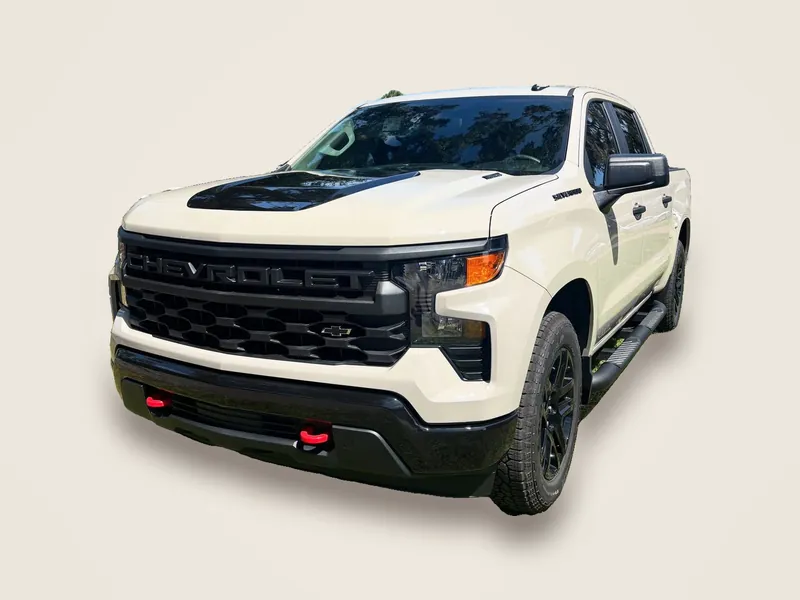
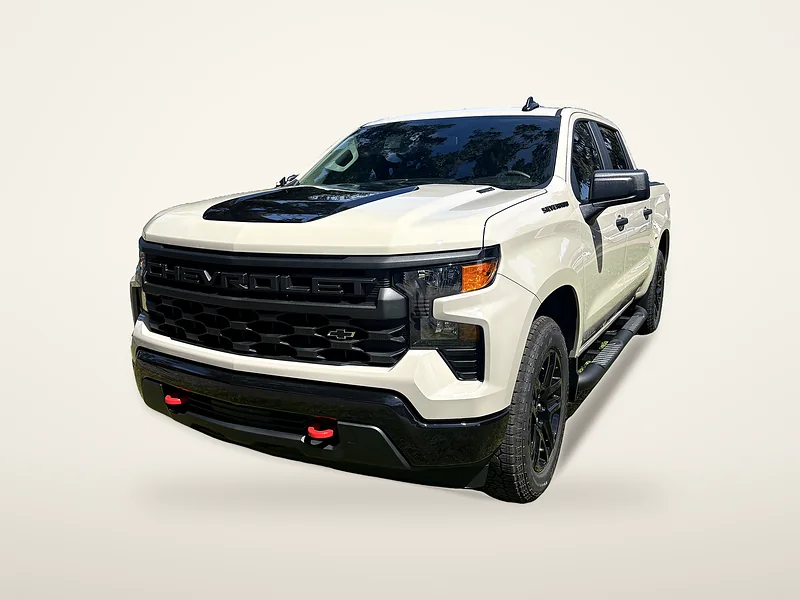
Studio photos, batch 1: DKDY van, Tucson, Silverado
Cutout pipeline v2 (BiRefNet on the full-res Drive originals, studio Stone
backdrop, under-body and tyre contact shadows) plus fixes found while
retouching the first three catalog photos:

- Grass trim only touches the outer rim of the silhouette; it was punching
  ragged holes into black bumpers and tyres that reflect the lawn.
- Lower edge median-smoothed, with a hand-traced clip for the Tucson lip.
- Tucson front tyre rebuilt where tall grass hid its foot.
- Edge burn on the black van so sky reflections no longer fade into the
  backdrop.

Changed region(s): [[0.125, 0.12, 0.875, 0.93]]

diff --git a/scripts/cutouts.py b/scripts/cutouts.py
@@ -1,51 +1,101 @@
-"""Vehicle cutouts: remove the photo background and re-stage the vehicle on a
-plain Stone backdrop with a soft ground shadow, framed the same way every time.
+"""Vehicle cutouts: lift the vehicle off its photo background and re-stage it on a
+plain Stone studio backdrop with a ground shadow, framed the same way every time.
 
-    python scripts/cutouts.py tucson-pink-front silverado-hood-angle work/cargo-van-construction-side
+    python scripts/cutouts.py tucson-pink-front work/cargo-van-construction-side ...
 
-Reads public/assets/<name>.jpg and writes public/assets/cutout/<basename>{,-800}.{jpg,webp}
-at 4:3 (the .type-card frame). Masks are cached in .cutout-cache/ (git-ignored) so
-re-staging is fast; delete a mask to recompute it. Runs fully offline (rembg).
+Source: the full-resolution original from the client's Drive folder when
+scripts/cutout_sources.json maps the photo to one (5712 px HEIC, far finer edges),
+otherwise public/assets/<name>.jpg. Output: public/assets/cutout/<basename>{,-800}.{jpg,webp}
+at 4:3 (the card frame), rendered at 2x and downsampled.
+
+Pipeline: BiRefNet mask -> keep the vehicle only -> edge tightened to a crisp line and
+grass trimmed at the tyres -> background colour removed from the edge pixels -> light colour grade
+-> studio backdrop, under-body shadow and tyre contact shadows -> sharpen.
+Masks are cached in .cutout-cache/ (git-ignored); delete one to recompute it.
+Runs fully offline (rembg, pymatting, OpenCV).
 """
+import json
+import os
 import sys
 from pathlib import Path
 
+import cv2
 import numpy as np
-from PIL import Image, ImageDraw, ImageFilter
+from PIL import Image, ImageEnhance, ImageFilter, ImageOps
 from scipy import ndimage
 
 ROOT = Path(__file__).resolve().parent.parent
 ASSETS = ROOT / "public" / "assets"
 OUT = ASSETS / "cutout"
 CACHE = ROOT / ".cutout-cache"
+DRIVE = Path(os.environ.get("HW_DRIVE", "G:/My Drive/Hermes Wraps"))
+SOURCES = json.loads((Path(__file__).parent / "cutout_sources.json").read_text())
 
-W, H = 1600, 1200          # 4:3, matches .type-card .media
+W, H = 1600, 1200          # 4:3, matches the card .media frame
+SS = 2                     # render at 2x, then downsample
+WORK = 2400                # long side the photo is processed at
 STONE = (236, 230, 220)    # --hw-stone
-GROUND = 0.86              # tyres sit at 86% of the frame height
-MAX_W, MAX_H = 0.86, 0.72  # largest share of the frame the vehicle may fill
-MODEL = "isnet-general-use"
+IVORY = (247, 244, 236)    # --hw-ivory
+GROUND = 0.84              # tyres sit at 84% of the frame height
+MAX_W, MAX_H = 0.84, 0.68  # largest share of the frame the vehicle may fill
+MODEL = "birefnet-general"
 # Photos where a neighbouring vehicle touches the subject need a harder split.
 SPLIT = {"corvette-front": 40}
-# Photos where a red car parked behind sits on the roofline: drop strong reds in the top quarter.
+# A red car parked behind sits on the roofline: drop strong reds in the top quarter.
 DROP_RED_TOP = {"corvette-front"}
+# Tyres whose foot is hidden in tall grass: the tyre's outline as an ellipse
+# ((cx, cy), (w, h), angle) in WORK-size source pixels. Inside the rubber ring the
+# silhouette is completed and grass blades are repainted in the tyre's own tone.
+TYRES = {"tucson-pink-front": [((996, 1529), (310, 462), 4)]}
+# Dark glossy bodies mirror the sky along their outline and fade into a light backdrop:
+# burn the inner rim back down: (strength 0..1, rim width as a share of the photo).
+EDGE_BURN = {"cargo-van-construction-side": (0.7, 0.03)}
+# Hand-traced lower edge (x, y) in WORK-size source pixels where grass blades cross a
+# bumper lip: nothing below the line is kept.
+BOTTOM_CLIP = {"tucson-pink-front": [(40, 1452), (100, 1490), (200, 1558), (300, 1620), (350, 1648),
+                                     (425, 1670), (500, 1680), (600, 1686), (700, 1686), (780, 1674), (800, 1666)]}
 
 
-def mask_for(name: str, src: Image.Image) -> Image.Image:
-    cached = CACHE / f"{name.replace('/', '__')}.png"
+def load_source(name: str) -> Image.Image:
+    orig = SOURCES.get(name)
+    if orig and (DRIVE / orig).exists():
+        if orig.lower().endswith(".heic"):
+            import pillow_heif
+            pillow_heif.register_heif_opener()
+        im = ImageOps.exif_transpose(Image.open(DRIVE / orig)).convert("RGB")
+    else:
+        im = Image.open(ASSETS / f"{name}.jpg").convert("RGB")
+    s = WORK / max(im.size)
+    if s < 1:
+        im = im.resize((round(im.width * s), round(im.height * s)), Image.LANCZOS)
+    return im
+
+
+def mask_for(name: str, src: Image.Image) -> np.ndarray:
+    cached = CACHE / f"{name.replace('/', '__')}.{MODEL}.png"
     if cached.exists():
-        return Image.open(cached).convert("L")
+        m = Image.open(cached).convert("L")
+        if m.size == src.size:
+            return np.asarray(m, dtype=np.float32) / 255
     from rembg import new_session, remove
-    m = remove(src, session=new_session(MODEL), only_mask=True, post_process_mask=True)
+    m = remove(src, session=new_session(MODEL), only_mask=True)
     CACHE.mkdir(exist_ok=True)
     m.save(cached)
-    return m
+    return np.asarray(m, dtype=np.float32) / 255
 
 
-def clean(mask: Image.Image, split: int = 12) -> Image.Image:
-    # Keep only the vehicle (largest blob) and close see-through holes in the glass.
-    a = np.asarray(mask, dtype=np.uint8)
-    solid = a > 128
-    # Erode first so a neighbouring car that merely touches the vehicle separates.
+def keep_vehicle(a: np.ndarray, src: Image.Image, base: str) -> np.ndarray:
+    """Largest blob only (a car parked behind is dropped), glass holes closed."""
+    if base in DROP_RED_TOP:
+        rgb = np.asarray(src).astype(int)
+        rows = np.where((a > 0.5).any(axis=1))[0]
+        top = rows[0] + (rows[-1] - rows[0]) // 3
+        r, g, b = rgb[..., 0], rgb[..., 1], rgb[..., 2]
+        red = ndimage.binary_dilation((r > 80) & (r > g * 1.35) & (r > b * 1.35), iterations=10)
+        red[top:] = False
+        a = np.where(red, 0, a)
+    split = SPLIT.get(base, 12)
+    solid = a > 0.5
     core = ndimage.binary_erosion(solid, iterations=split)
     labels, n = ndimage.label(core)
     if n > 1:
@@ -53,72 +103,210 @@ def clean(mask: Image.Image, split: int = 12) -> Image.Image:
         core = labels == (int(np.argmax(sizes)) + 1)
     keep = ndimage.binary_dilation(core, iterations=split + 2) & solid
     keep = ndimage.binary_fill_holes(keep)
-    near = ndimage.binary_dilation(keep, iterations=6)
-    a = np.where(keep, 255, np.where(near, a, 0)).astype(np.uint8)
-    return Image.fromarray(a, "L")
+    band = ndimage.binary_dilation(keep, iterations=8)
+    return np.where(keep, 1.0, np.where(band, a, 0.0)).astype(np.float32)
 
 
-def ground_shadow(cmask: Image.Image, x: int, y: int) -> Image.Image:
-    # Follow the vehicle's real underside: a tight contact line under every tyre
-    # and bumper, plus a soft pool spreading just below it.
-    a = np.asarray(cmask) > 128
-    cols = np.where(a.any(axis=0))[0]
-    bottom = a.shape[0] - 1 - np.argmax(a[::-1, :], axis=0)
-    contact = Image.new("L", (W, H), 0)
-    pool = Image.new("L", (W, H), 0)
-    dc, dp = ImageDraw.Draw(contact), ImageDraw.Draw(pool)
-    for c in cols:
-        by = y + int(bottom[c])
-        dc.line((x + c, by - 10, x + c, by + 4), fill=230)
-        dp.line((x + c, by - 30, x + c, by + H * 0.045), fill=165)
-    contact = contact.filter(ImageFilter.GaussianBlur(H * 0.006))
-    pool = pool.filter(ImageFilter.GaussianBlur(H * 0.022))
-    return Image.fromarray(np.maximum(np.asarray(contact), np.asarray(pool)), "L")
+def smooth_bottom(alpha: np.ndarray, top: int, bot: int, base: str = "") -> np.ndarray:
+    """Clean the lower silhouette: grass blades along bumper lips and the tyres' feet
+    make that edge spiky. Take each column's lowest solid row, median-filter that
+    profile and cut everything below it with a 1 px anti-aliased edge."""
+    solid = alpha > 0.5
+    has = solid.any(axis=0)
+    hgt = solid.shape[0]
+    bottom = (hgt - 1 - np.argmax(solid[::-1, :], axis=0)).astype(np.float32)
+    cols = np.where(has)[0]
+    k = max(9, int((cols[-1] - cols[0]) * 0.014) | 1)
+    prof = bottom.copy()
+    prof[cols] = ndimage.median_filter(bottom[cols], size=k, mode="nearest")
+    prof[cols] = ndimage.gaussian_filter1d(prof[cols], k / 6)
+    clip = BOTTOM_CLIP.get(base)
+    if clip:
+        xs = np.arange(clip[0][0], clip[-1][0] + 1)
+        prof[xs] = np.minimum(prof[xs], np.interp(xs, *zip(*clip)))
+    low = prof > top + (bot - top) * 0.55  # only the underside, not the roof or mirrors
+    rows = np.arange(hgt, dtype=np.float32)[:, None]
+    cut = np.clip(prof[None, :] - 1.5 - rows + 0.5, 0, 1)
+    return np.where((has & low)[None, :], alpha * cut, alpha)
 
 
-def backdrop() -> Image.Image:
-    # Plain Stone, a touch lighter in the centre so the vehicle reads as lit.
-    bg = Image.new("RGB", (W, H), STONE)
-    glow = Image.new("L", (W, H), 0)
-    ImageDraw.Draw(glow).ellipse((W * 0.1, H * 0.05, W * 0.9, H * 0.95), fill=70)
-    glow = glow.filter(ImageFilter.GaussianBlur(H * 0.18))
-    return Image.composite(Image.new("RGB", (W, H), (246, 242, 234)), bg, glow)
+def mend_tyres(img: np.ndarray, a: np.ndarray, base: str) -> tuple[np.ndarray, np.ndarray]:
+    for (cx, cy), (w, h), ang in TYRES.get(base, []):
+        outer = np.zeros(a.shape, np.uint8)
+        cv2.ellipse(outer, ((cx, cy), (w, h), ang), 1, -1)
+        inner = np.zeros_like(outer)
+        cv2.ellipse(inner, ((cx, cy), (w * 0.74, h * 0.74), ang), 1, -1)
+        lower = np.arange(a.shape[0])[:, None] > cy
+        ring = (outer > 0) & (inner == 0) & lower
+        r, g, b = img[..., 0], img[..., 1], img[..., 2]
+        grass = ring & (((g > r + 0.02) & (g > b + 0.02)) | (g > b + 0.04) | (a < 0.5))
+        rubber = np.median(img[ring & ~grass & (a > 0.5)], axis=0)
+        # Pale, sunlit blades on the grass side of the tyre (the lettering is on the other side).
+        right = np.arange(a.shape[1])[None, :] > cx + w * 0.1
+        grass |= ring & right & (img.mean(axis=2) > rubber.mean() * 1.6)
+        grass = ndimage.binary_dilation(grass, iterations=1) & ring
+        # Keep a little of the original light variation so the patch is not flat.
+        lum = img.mean(axis=2, keepdims=True)
+        tone = rubber * (0.85 + 0.3 * np.clip(lum / max(lum[ring].mean(), 1e-3), 0, 1.5) / 1.5)
+        # Rubber grain, and a feathered blend so the patch has no hard rim.
+        rng = np.random.default_rng(7)
+        grain = cv2.GaussianBlur(rng.normal(0, 0.035, a.shape).astype(np.float32), (0, 0), 1.2)[..., None]
+        tone = np.clip(tone * (1 + grain * 3), 0, 1)
+        k = cv2.GaussianBlur(grass.astype(np.float32), (0, 0), 2.5)
+        k = np.clip(np.maximum(k * 1.6, grass), 0, 1)[..., None] * ring[..., None]
+        img = img * (1 - k) + tone * k
+        a = np.where(outer > 0, np.maximum(a, (outer > 0) & lower), a).astype(np.float32)
+    return img, a
+
+
+def refine(a: np.ndarray, src: Image.Image, base: str = "") -> tuple[np.ndarray, np.ndarray]:
+    img = np.asarray(src, dtype=np.float32) / 255
+    img, a = mend_tyres(img, a, base)
+    # Tighten the model's soft edge to a crisp 1-2 px anti-aliased line: a soft,
+    # wide edge is what reads as a "hairy" halo once the background is gone.
+    t = np.clip((a - 0.3) / 0.4, 0, 1)
+    alpha = t * t * (3 - 2 * t)
+    # Grass at the foot of the tyres: drop green pixels, but only on the outer rim of
+    # the silhouette in the bottom band. Black bumpers and tyres reflect the grass, so a
+    # deeper trim punches ragged holes into them.
+    solid = alpha > 0.5
+    hgt = solid.shape[0]
+    rows = np.arange(hgt)[:, None]
+    top_rows = np.where(solid.any(axis=1))[0]
+    band = rows > top_rows[-1] - (top_rows[-1] - top_rows[0]) * 0.08
+    rim = ndimage.distance_transform_edt(solid) < 6
+    r, g, b = img[..., 0], img[..., 1], img[..., 2]
+    green = (g > r + 0.03) & (g > b + 0.03)
+    mended = np.zeros(solid.shape, np.uint8)
+    for e in TYRES.get(base, []):
+        cv2.ellipse(mended, e, 1, -1)
+    alpha = np.where(band & rim & green & (mended == 0), 0.0, alpha)
+    alpha = smooth_bottom(alpha, top_rows[0], top_rows[-1], base)
+    alpha = cv2.GaussianBlur(alpha.astype(np.float32), (0, 0), 0.7)
+    alpha = np.where(alpha < 0.04, 0.0, alpha)
+    # Remove the background colour (grass, sky) that bleeds into the edge pixels.
+    from pymatting import estimate_foreground_ml
+    fg = estimate_foreground_ml(img.astype(np.float64), alpha.astype(np.float64))
+    return np.clip(fg, 0, 1).astype(np.float32), alpha.astype(np.float32)
+
+
+def burn_edge(fg: np.ndarray, alpha: np.ndarray, base: str) -> np.ndarray:
+    if base not in EDGE_BURN:
+        return fg
+    s, w = EDGE_BURN[base]
+    d = ndimage.distance_transform_edt(alpha > 0.5)
+    width = max(alpha.shape) * w
+    ramp = np.clip(1 - d / width, 0, 1) ** 1.5
+    # Burn the bright reflections only; dark paint is already the right edge.
+    lum = fg.mean(axis=2)
+    k = s * ramp * np.clip((lum - 0.12) / 0.5, 0, 1)
+    return fg * (1 - k[..., None] * 0.8)
+
+
+def grade(fg: np.ndarray, alpha: np.ndarray) -> np.ndarray:
+    """Gentle, consistent grade from the vehicle's own pixels: levels, vibrance."""
+    sel = alpha > 0.9
+    lo, hi = np.percentile(fg[sel], 0.4), np.percentile(fg[sel], 99.6)
+    fg = np.clip((fg - lo) / max(hi - lo, 1e-3), 0, 1)
+    im = Image.fromarray((fg * 255).astype(np.uint8))
+    im = ImageEnhance.Color(im).enhance(1.06)
+    im = ImageEnhance.Contrast(im).enhance(1.04)
+    return np.asarray(im, dtype=np.float32) / 255
+
+
+def backdrop(w: int, h: int, horizon: int) -> np.ndarray:
+    """Studio cove: lit centre, wall fading into a slightly deeper floor."""
+    yy, xx = np.mgrid[0:h, 0:w].astype(np.float32)
+    bg = np.empty((h, w, 3), np.float32)
+    stone, ivory = np.array(STONE) / 255, np.array(IVORY) / 255
+    t = np.clip((yy - horizon * 0.55) / (horizon * 0.9), 0, 1)[..., None]
+    bg[:] = ivory * (1 - t) + stone * t
+    floor = np.clip((yy - horizon) / (h - horizon), 0, 1)[..., None]
+    bg *= 1 - 0.05 * floor
+    r = np.hypot((xx - w / 2) / (w * 0.62), (yy - h * 0.48) / (h * 0.75))
+    bg *= (1 - 0.06 * np.clip(r - 0.55, 0, 1))[..., None]
+    return bg
+
+
+def shadows(alpha: np.ndarray, x: int, y: int, w: int, h: int) -> np.ndarray:
+    """Shadow strength map (0..1) on the canvas.
+
+    The ground line is the lower convex hull of the vehicle's silhouette: it touches
+    the tyres. Between the tyres the body sits above it, and that gap is the dark
+    space under the car. Tyre contact points get a tight, darker shadow.
+    """
+    sh = np.zeros((h, w), np.float32)
+    solid = alpha > 0.5
+    cols = np.where(solid.any(axis=0))[0]
+    bottom = solid.shape[0] - 1 - np.argmax(solid[::-1, :], axis=0)
+    pts = [(int(c), int(bottom[c])) for c in cols[:: max(1, len(cols) // 400)]]
+    hull = []  # lower hull in image coordinates (largest y)
+    for p in pts:
+        while len(hull) >= 2:
+            (x1, y1), (x2, y2) = hull[-2], hull[-1]
+            if (x2 - x1) * (p[1] - y1) - (y2 - y1) * (p[0] - x1) >= 0:
+                hull.pop()
+            else:
+                break
+        hull.append(p)
+    hx = np.array([p[0] for p in hull], np.float32)
+    hy = np.array([p[1] for p in hull], np.float32)
+    ground = np.interp(cols, hx, hy)
+    span = cols[-1] - cols[0]
+    under = np.zeros_like(sh)
+    contact = np.zeros_like(sh)
+    for c, g in zip(cols, ground):
+        b = bottom[c]
+        gx, gy0, gy = x + c, y + int(b), y + int(g)
+        if gy > gy0:  # gap between body and ground: shade it, darker toward the ground
+            under[gy0:gy, gx] = np.linspace(0.45, 0.85, gy - gy0)
+        if g - b < span * 0.012:  # tyre (or bumper) touching the ground line
+            contact[gy - 6: gy + 2, gx] = 1.0
+        under[gy - 2: gy + int(h * 0.006), gx] = 0.45
+    under = cv2.GaussianBlur(under, (0, 0), h * 0.006)
+    contact = cv2.GaussianBlur(contact, (0, 0), h * 0.003)
+    # A broad, faint pool that grounds the whole vehicle.
+    pool = np.zeros_like(sh)
+    cx0, cx1 = x + cols[0], x + cols[-1]
+    gy_mid = int(y + ground.max())
+    cv2.ellipse(pool, ((cx0 + cx1) // 2, gy_mid - int(h * 0.016)), ((cx1 - cx0) // 2, int(h * 0.028)), 0, 0, 360, 0.22, -1)
+    pool = cv2.GaussianBlur(pool, (0, 0), h * 0.022)
+    return np.clip(np.maximum.reduce([under * 0.85, contact * 0.95, pool]), 0, 0.92)
 
 
 def stage(name: str) -> None:
-    src = Image.open(ASSETS / f"{name}.jpg").convert("RGB")
     base = name.split("/")[-1]
-    raw = mask_for(name, src)
-    if base in DROP_RED_TOP:
-        a, rgb = np.asarray(raw).copy(), np.asarray(src).astype(int)
-        rows = np.where((a > 128).any(axis=1))[0]
-        top = rows[0] + (rows[-1] - rows[0]) // 4
-        r, g, b = rgb[..., 0], rgb[..., 1], rgb[..., 2]
-        red = (r > 90) & (r > g * 1.5) & (r > b * 1.5)
-        red = ndimage.binary_dilation(red, iterations=4)
-        red[top:] = False
-        a[red] = 0
-        raw = Image.fromarray(a, "L")
-    mask = clean(raw, SPLIT.get(base, 12))
-    box = mask.getbbox()
-    car, cmask = src.crop(box), mask.crop(box)
+    src = load_source(name)
+    a = keep_vehicle(mask_for(name, src), src, base)
+    fg, alpha = refine(a, src, base)
+    fg = grade(burn_edge(fg, alpha, base), alpha)
 
-    scale = min(W * MAX_W / car.width, H * MAX_H / car.height)
-    size = (round(car.width * scale), round(car.height * scale))
-    car, cmask = car.resize(size, Image.LANCZOS), cmask.resize(size, Image.LANCZOS)
-    x, y = (W - size[0]) // 2, round(H * GROUND) - size[1]
+    ys, xs = np.where(alpha > 0.02)
+    y0, y1, x0, x1 = ys.min(), ys.max() + 1, xs.min(), xs.max() + 1
+    fg, alpha = fg[y0:y1, x0:x1], alpha[y0:y1, x0:x1]
 
-    canvas = backdrop()
-    shade = ground_shadow(cmask, x, y)
-    canvas = Image.composite(Image.new("RGB", (W, H), (70, 58, 50)), canvas, shade)
+    cw, ch = W * SS, H * SS
+    s = min(cw * MAX_W / fg.shape[1], ch * MAX_H / fg.shape[0])
+    size = (round(fg.shape[1] * s), round(fg.shape[0] * s))
+    fg = cv2.resize(fg, size, interpolation=cv2.INTER_AREA if s < 1 else cv2.INTER_CUBIC)
+    alpha = np.clip(cv2.resize(alpha, size, interpolation=cv2.INTER_AREA if s < 1 else cv2.INTER_CUBIC), 0, 1)
+    x, y = (cw - size[0]) // 2, round(ch * GROUND) - size[1]
 
-    canvas.paste(car, (x, y), cmask)
+    canvas = backdrop(cw, ch, round(ch * GROUND) - round(ch * 0.10))
+    shade = shadows(alpha, x, y, cw, ch)
+    # Multiply the shadow in, a touch warmer than neutral so it sits on Stone.
+    canvas *= 1 - (shade * 0.62)[..., None] * np.array([1.0, 1.03, 1.07], np.float32)
+    region = canvas[y:y + size[1], x:x + size[0]]
+    region[:] = fg * alpha[..., None] + region * (1 - alpha[..., None])
 
+    out = Image.fromarray((np.clip(canvas, 0, 1) * 255).astype(np.uint8)).resize((W, H), Image.LANCZOS)
+    out = out.filter(ImageFilter.UnsharpMask(radius=1.1, percent=55, threshold=2))
     OUT.mkdir(exist_ok=True)
-    for suffix, im in (("", canvas), ("-800", canvas.resize((800, 600), Image.LANCZOS))):
-        im.save(OUT / f"{base}{suffix}.jpg", quality=84, optimize=True, progressive=True)
-        im.save(OUT / f"{base}{suffix}.webp", quality=80, method=6)
-    print("staged", base)
+    small = out.resize((800, 600), Image.LANCZOS).filter(ImageFilter.UnsharpMask(radius=0.8, percent=40, threshold=2))
+    for suffix, im in (("", out), ("-800", small)):
+        im.save(OUT / f"{base}{suffix}.jpg", quality=88, optimize=True, progressive=True)
+        im.save(OUT / f"{base}{suffix}.webp", quality=84, method=6)
+    print("staged", base, flush=True)
 
 
 if __name__ == "__main__":
